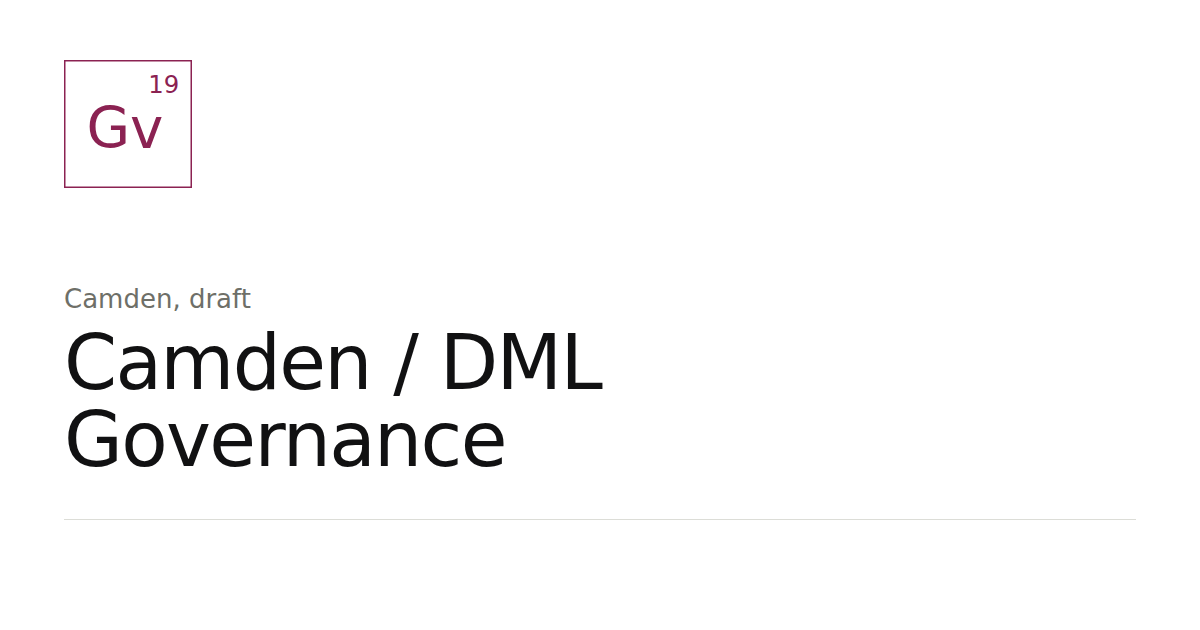
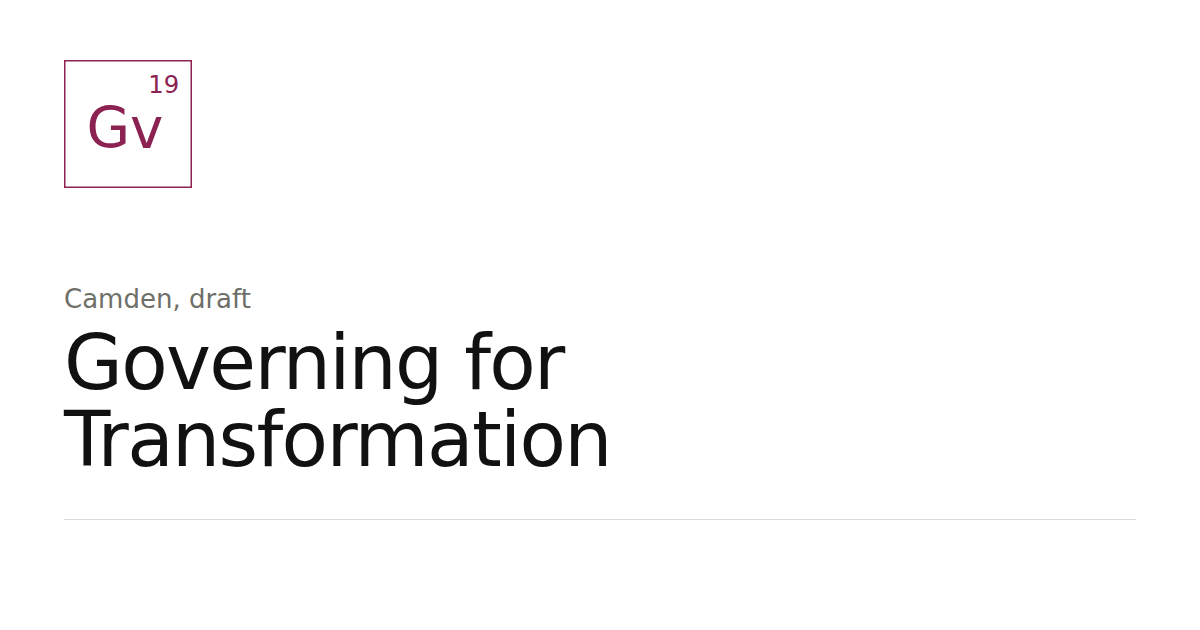
Retitle governance page, add Governing Together as a fourth reference
Hero becomes "Governing for Transformation" with "Neither of us holds
the steering wheel." as the subtitle. The methods section now draws on
four bodies of work instead of three, adding DML's Governing Together
alongside many-to-many contracting, Cornerstone Indicators and Beyond
the Rules, linked in the methods card and the footer credit.

Claude-Session: https://claude.ai/code/session_01Qav7maXNPuh2bSZKtfst4Z

Changed region(s): [[0.0308, 0.5127, 0.5242, 0.754]]

diff --git a/camden-dml-governance.html b/camden-dml-governance.html
@@ -3,7 +3,7 @@
 <head>
 <meta charset="UTF-8">
 <meta name="viewport" content="width=device-width, initial-scale=1.0">
-<title>How Camden and Dark Matter Labs Work Together (draft) — Food as Infrastructure</title>
+<title>Governing for Transformation (draft) — Food as Infrastructure</title>
 <style>
   :root{
     --paper:var(--fai-paper);
@@ -64,6 +64,7 @@
   .hero{padding:56px 0 64px; border-bottom:1px solid var(--line);}
   .hero .lot-number{font-size:14px; color:var(--ink-faint); margin-bottom:16px;}
   .hero h1{font-size:clamp(38px, 5.6vw, 68px); line-height:1.05; font-weight:500; max-width:21ch;}
+  .hero .subtitle{font-size:24px; font-style:italic; font-weight:400; color:var(--ink-soft); margin:16px 0 0; max-width:var(--fai-measure);}
   .hero .lede{max-width:var(--fai-measure); margin:24px 0 0; font-size:21px; color:var(--ink-soft); line-height:1.45;}
   .hero .cta-row{margin-top:32px; display:flex; gap:12px; flex-wrap:wrap; align-items:center;}
   .btn{
@@ -78,7 +79,7 @@
 
   section{padding:88px 0; border-bottom:1px solid var(--line);}
   main > section:last-child{border-bottom:none;}
-  @media (max-width:720px){ section{padding:56px 0;} .hero{padding:40px 0 48px;} .hero .lede{font-size:19px;} }
+  @media (max-width:720px){ section{padding:56px 0;} .hero{padding:40px 0 48px;} .hero .subtitle{font-size:19px;} .hero .lede{font-size:19px;} }
 
   .section-head{max-width:760px; margin-bottom:40px;}
   .section-head h2{font-size:clamp(27px,3.2vw,38px); line-height:1.15; font-weight:500; margin-top:10px;}
@@ -137,24 +138,24 @@
   footer .credit{font-size:14px; line-height:1.55; color:var(--ink-faint); margin-top:32px; border-top:1px solid var(--line); padding-top:20px; max-width:none;}
 </style>
 <!-- fai:head -->
-<meta name="description" content="A governance draft rooted in shared authorship rather than one side holding power over the other — drawing on many-to-many contracting, Cornerstone Indicators and Indy Johar’s “The Energetics of Building.”">
+<meta name="description" content="A governance draft rooted in shared authorship rather than one side holding power over the other — drawing on Dark Matter Labs’ Governing Together, many-to-many contracting and Cornerstone Indicators work, and Indy Johar’s “The Energetics of Building.”">
 <link rel="canonical" href="https://food.darkmatterlabs.org/camden-dml-governance.html">
 <meta name="theme-color" content="#111112">
 <meta property="og:type" content="article">
 <meta property="og:site_name" content="Food as Infrastructure, Dark Matter Labs">
 <meta property="og:locale" content="en_GB">
 <meta property="og:url" content="https://food.darkmatterlabs.org/camden-dml-governance.html">
-<meta property="og:title" content="How Camden and Dark Matter Labs Work Together">
-<meta property="og:description" content="A governance draft rooted in shared authorship rather than one side holding power over the other — drawing on many-to-many contracting, Cornerstone Indicators and Indy Johar’s “The Energetics of Building.”">
+<meta property="og:title" content="Governing for Transformation">
+<meta property="og:description" content="A governance draft rooted in shared authorship rather than one side holding power over the other — drawing on Dark Matter Labs’ Governing Together, many-to-many contracting and Cornerstone Indicators work, and Indy Johar’s “The Energetics of Building.”">
 <meta property="og:image" content="https://food.darkmatterlabs.org/assets/fai/social/camden-dml-governance.png">
 <meta property="og:image:width" content="1200">
 <meta property="og:image:height" content="630">
-<meta property="og:image:alt" content="How Camden and Dark Matter Labs Work Together. Food as Infrastructure, Dark Matter Labs.">
+<meta property="og:image:alt" content="Governing for Transformation. Food as Infrastructure, Dark Matter Labs.">
 <meta name="twitter:card" content="summary_large_image">
-<meta name="twitter:title" content="How Camden and Dark Matter Labs Work Together">
-<meta name="twitter:description" content="A governance draft rooted in shared authorship rather than one side holding power over the other — drawing on many-to-many contracting, Cornerstone Indicators and Indy Johar’s “The Energetics of Building.”">
+<meta name="twitter:title" content="Governing for Transformation">
+<meta name="twitter:description" content="A governance draft rooted in shared authorship rather than one side holding power over the other — drawing on Dark Matter Labs’ Governing Together, many-to-many contracting and Cornerstone Indicators work, and Indy Johar’s “The Energetics of Building.”">
 <meta name="twitter:image" content="https://food.darkmatterlabs.org/assets/fai/social/camden-dml-governance.png">
-<meta name="twitter:image:alt" content="How Camden and Dark Matter Labs Work Together. Food as Infrastructure, Dark Matter Labs.">
+<meta name="twitter:image:alt" content="Governing for Transformation. Food as Infrastructure, Dark Matter Labs.">
 <link rel="icon" href="assets/fai/favicon.svg" type="image/svg+xml">
 <link rel="preconnect" href="https://fonts.googleapis.com">
 <link rel="preconnect" href="https://fonts.gstatic.com" crossorigin>
@@ -208,7 +209,8 @@
   <section class="hero">
     <div class="wrap">
       <div class="lot-number">Governance for the Camden / DML partnership, 2026</div>
-      <h1>Neither of us holds the steering wheel.</h1>
+      <h1>Governing for Transformation</h1>
+      <p class="subtitle">Neither of us holds the steering wheel.</p>
       <p class="lede">Camden keeps a seat at the table — funding, convening, the democratic legitimacy to act. Dark Matter Labs brings systems capability, cross-London pattern-matching, and the capacity to move fast without council process constraints. Neither side's knowledge is sufficient alone, and this page sets out, concretely, what it means to hold that as a working principle rather than a slogan.</p>
       <div class="cta-row">
         <a class="btn primary" href="#practice">See how it actually works</a>
@@ -308,10 +310,16 @@
     <div class="wrap">
       <div class="section-head">
         <div class="eyebrow">Not invented for this partnership</div>
-        <h2>Three bodies of work this draws on</h2>
+        <h2>Four bodies of work this draws on</h2>
         <p class="sub">None of this is bespoke to Camden. It's drawn from work Dark Matter Labs has developed across other partnerships, adapted here rather than built from scratch.</p>
       </div>
-      <div class="tie-grid">
+      <div class="tie-grid two">
+        <div class="tie-card">
+          <div class="num">Governance structures</div>
+          <h4>Governing Together</h4>
+          <p>Dark Matter Labs' wider <a href="https://www.governing-together.org/" target="_blank" rel="noopener">Governing Together<span aria-hidden="true"> ↗</span></a> work, on how distributed, multi-party undertakings actually govern themselves when no single party holds the whole mandate: who holds which decision rights, how disagreement gets surfaced rather than buried, and how a shared undertaking keeps renewing its own legitimacy over time.</p>
+          <p class="translate"><b>For Camden:</b> this page is a direct, two-party application of that wider thinking, not a one-off invention for this partnership.</p>
+        </div>
         <div class="tie-card">
           <div class="num">Funding relationships</div>
           <h4>Many-to-many contracting</h4>
@@ -392,7 +400,7 @@
 <footer>
   <div class="wrap">
     <div class="col col-about">
-      <h4>How Camden and DML Work Together</h4>
+      <h4>Governing for Transformation</h4>
       <p>A governance draft for the Camden / Dark Matter Labs partnership, part of the Food as Infrastructure portfolio. Written to be co-edited, not handed down.</p>
     </div>
     <div class="col">
@@ -412,7 +420,7 @@
     </div>
   </div>
   <div class="wrap footer-bottom">
-    <div class="credit">Draws on Indy Johar's <a href="https://indyjohar.substack.com/p/the-energetics-of-building" target="_blank" rel="noopener">"The Energetics of Building"<span aria-hidden="true"> ↗</span></a> (6 October 2026) and Dark Matter Labs' own work on many-to-many contracting, Cornerstone Indicators and Beyond the Rules. Written for the Camden Food Partnership and Dark Matter Labs specifically; not a general template.<br><br>Parts of this page were drafted with AI assistance (Claude). Licensed CC BY-SA 4.0 — see the <a href="index.html">homepage</a> for full credit and lineage.</div>
+    <div class="credit">Draws on Indy Johar's <a href="https://indyjohar.substack.com/p/the-energetics-of-building" target="_blank" rel="noopener">"The Energetics of Building"<span aria-hidden="true"> ↗</span></a> (6 October 2026) and Dark Matter Labs' own work on <a href="https://www.governing-together.org/" target="_blank" rel="noopener">Governing Together<span aria-hidden="true"> ↗</span></a>, many-to-many contracting, Cornerstone Indicators and Beyond the Rules. Written for the Camden Food Partnership and Dark Matter Labs specifically; not a general template.<br><br>Parts of this page were drafted with AI assistance (Claude). Licensed CC BY-SA 4.0 — see the <a href="index.html">homepage</a> for full credit and lineage.</div>
   </div>
 </footer>
 

diff --git a/library.html b/library.html
@@ -234,7 +234,7 @@
         <a class="tile tile--camden" href="wheres-the-energy.html" aria-label="Where’s the Energy?"><i>7</i><b>En</b><span>Where’s the Energy?</span></a>
         <a class="tile tile--camden tile--draft" href="camden-health-and-wellbeing.html" aria-label="Draft. Healthy Weight Acceleration Plan"><i>8</i><b>Hw</b><span>Healthy Weight</span></a>
         <a class="tile tile--camden tile--draft" href="options-for-camden.html" aria-label="Draft. Options for Camden"><i>18</i><b>Oc</b><span>Options for Camden</span></a>
-        <a class="tile tile--camden tile--draft" href="camden-dml-governance.html" aria-label="Draft. How Camden and Dark Matter Labs Work Together"><i>19</i><b>Gv</b><span>Camden / DML Governance</span></a>
+        <a class="tile tile--camden tile--draft" href="camden-dml-governance.html" aria-label="Draft. Governing for Transformation"><i>19</i><b>Gv</b><span>Camden / DML Governance</span></a>
       </div>
     </div>
     <div class="period">
@@ -454,8 +454,8 @@
         <li class="entry">
           <span class="fai-el fai-el--camden fai-el--draft" style="--el-size:44px" aria-hidden="true"><b>Gv</b><i>19</i></span>
           <div class="entry__body">
-            <h4><a href="camden-dml-governance.html">How Camden and Dark Matter Labs Work Together</a><span class="entry__draft">Draft</span></h4>
-            <p>A governance draft rooted in shared authorship rather than one side holding power over the other — drawing on many-to-many contracting, Cornerstone Indicators and Indy Johar’s “The Energetics of Building.”</p>
+            <h4><a href="camden-dml-governance.html">Governing for Transformation</a><span class="entry__draft">Draft</span></h4>
+            <p>A governance draft rooted in shared authorship rather than one side holding power over the other — drawing on Dark Matter Labs’ Governing Together, many-to-many contracting and Cornerstone Indicators work, and Indy Johar’s “The Energetics of Building.”</p>
           </div>
           <div class="entry__links"></div>
         </li>
